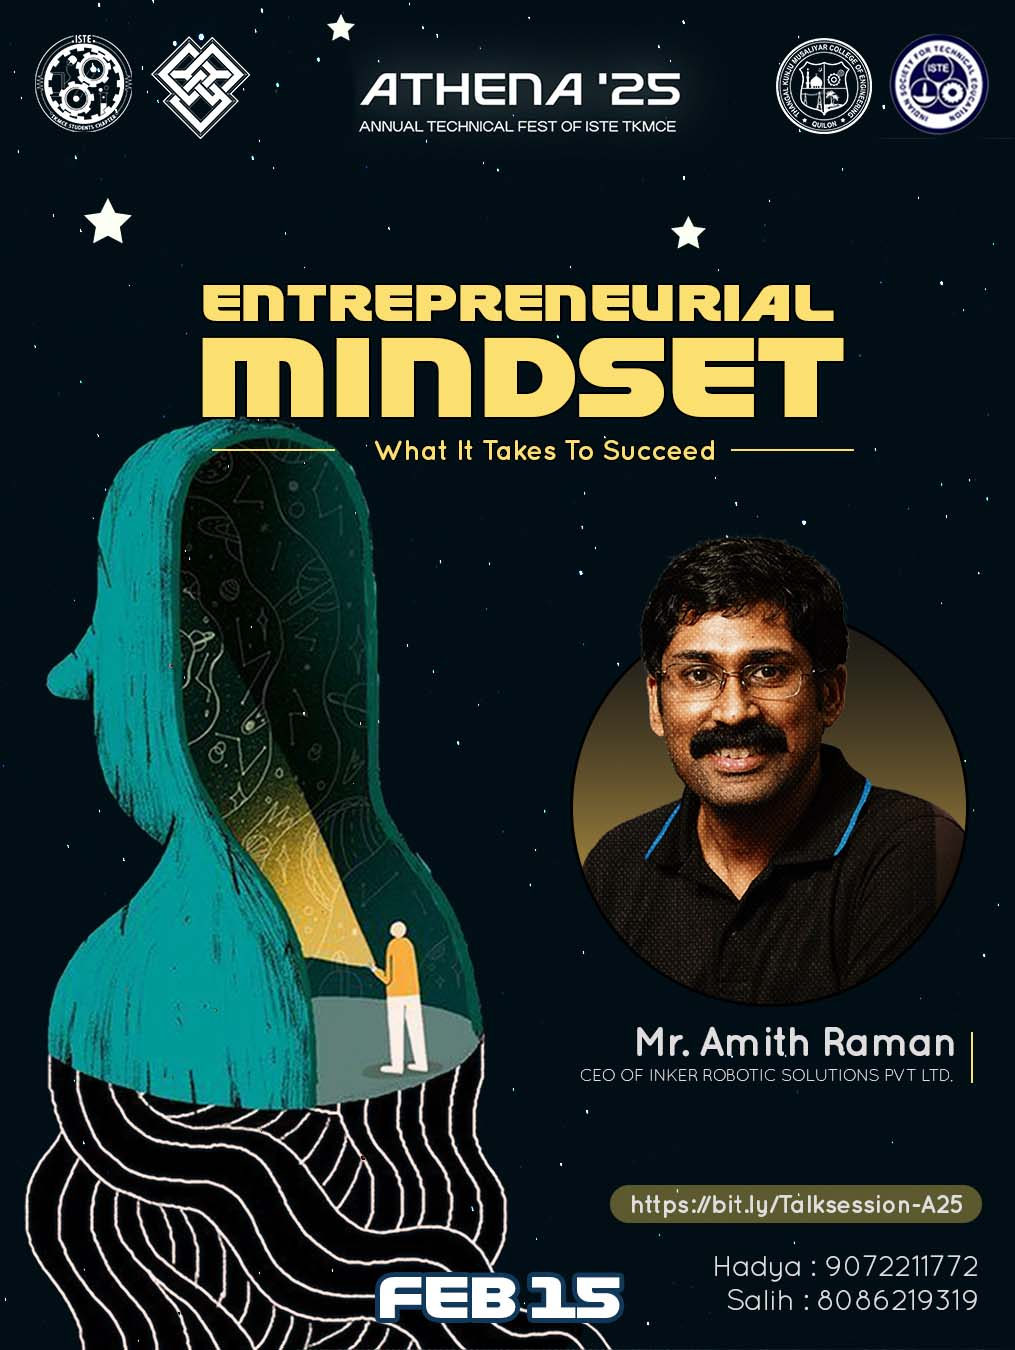
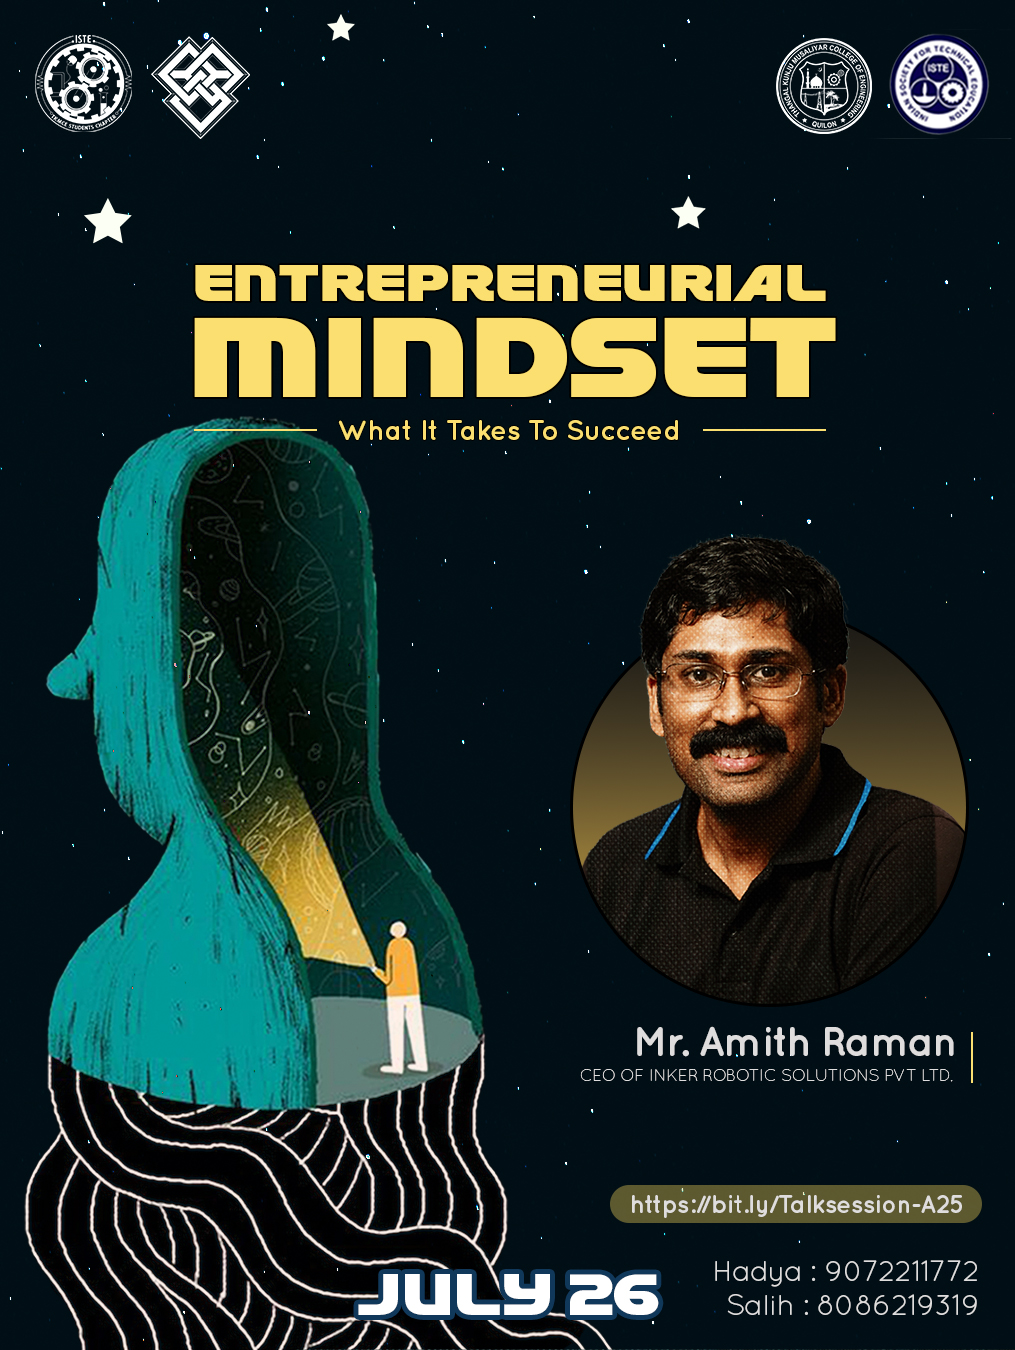
cv

diff --git a/src/content/talkshow.js b/src/content/talkshow.js
@@ -3,15 +3,15 @@ const talkshowDetails = [
             id: "Talksession-A25",
             name : "Entrepreneurial-mindset : what it takes to succeed",
             details: "\"Entrepreneurial Mindset: What It Takes to Succeed\" is a talk session that delves into the essential traits and strategies of successful entrepreneurs. Led by Mr Amith Raman, CEO of Inker Robotic Solutions Pvt. Ltd., this session will offer valuable insights into cultivating the right mindset, overcoming challenges, and turning ideas into reality through real-world experiences.",
-            date : "15 Feb 2025",
+            date : "26 July 2025",
             posters: ["/events/Talksession-A25/poster.jpg"],
-            deadline: "15/02/25",
+            deadline: "25 July 25",
             price : "FREE",
             coordinators : [
                 {name: "Hadya unais", phone:"9072211772"},
                 {name: "Muhammed salih u k", phone:"8086219319"}],
-            link: "https://makemypass.com/entrepreneurial-mindset",
-            isopen:false
+            link: "https://makemypass.com/event/entrepreneural-mindset",
+            isopen:true
 },
 
 ]

diff --git a/src/content/workshops.js b/src/content/workshops.js
@@ -8,8 +8,8 @@ const workshopDetails= [
         deadline : "24 July, 2025",
         price : "₹500 for Non-ISTE members \n ₹400 for ISTE members",
         coordinators : [{name: "Fardeen", phone:"7736055843"},{name: "Nafih", phone:"8113920470"}],
-        link: "https://makemypass.com/3d-printing-workshop-2",
-        isopen:false
+        link: "https://makemypass.com/event/3d-printing-workshop-with-solidworks",
+        isopen:true
 },
 {
     id: "Generative-ai",
